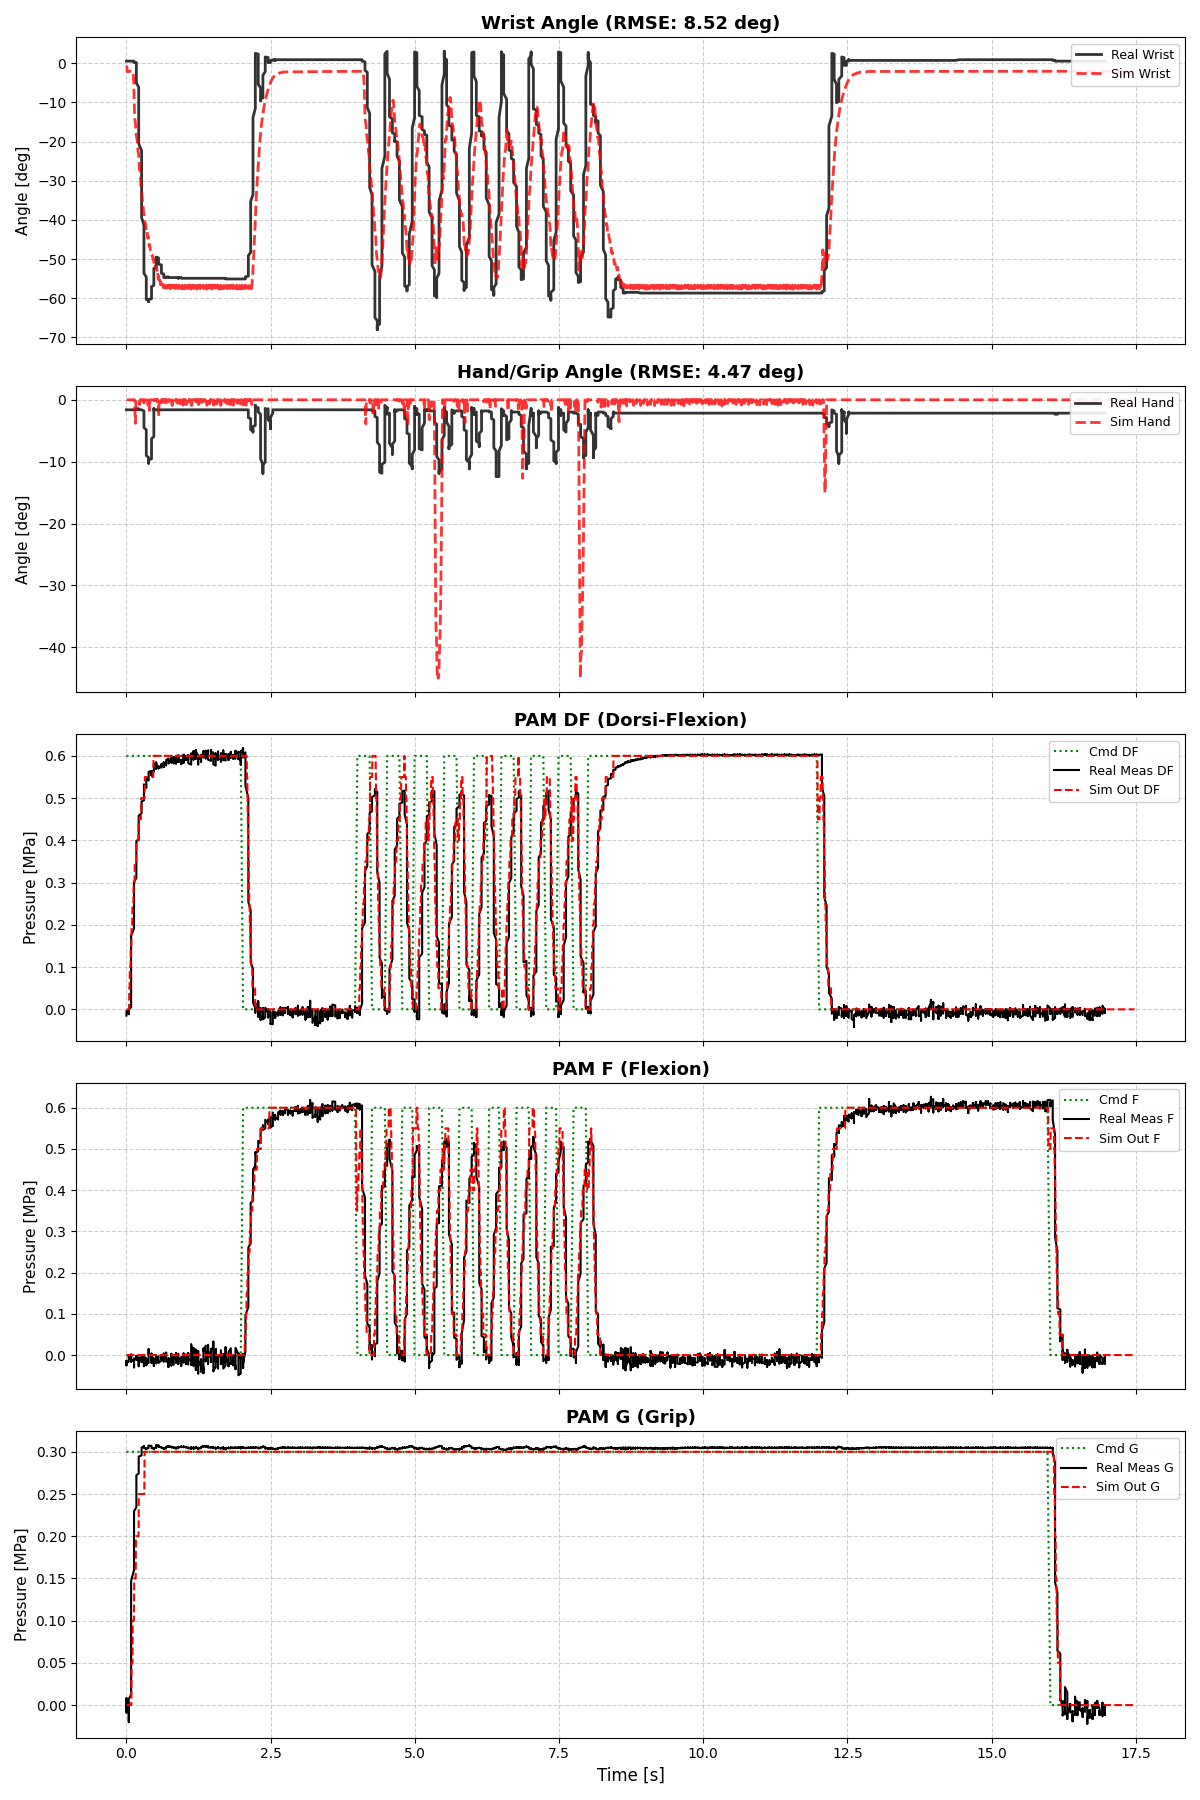
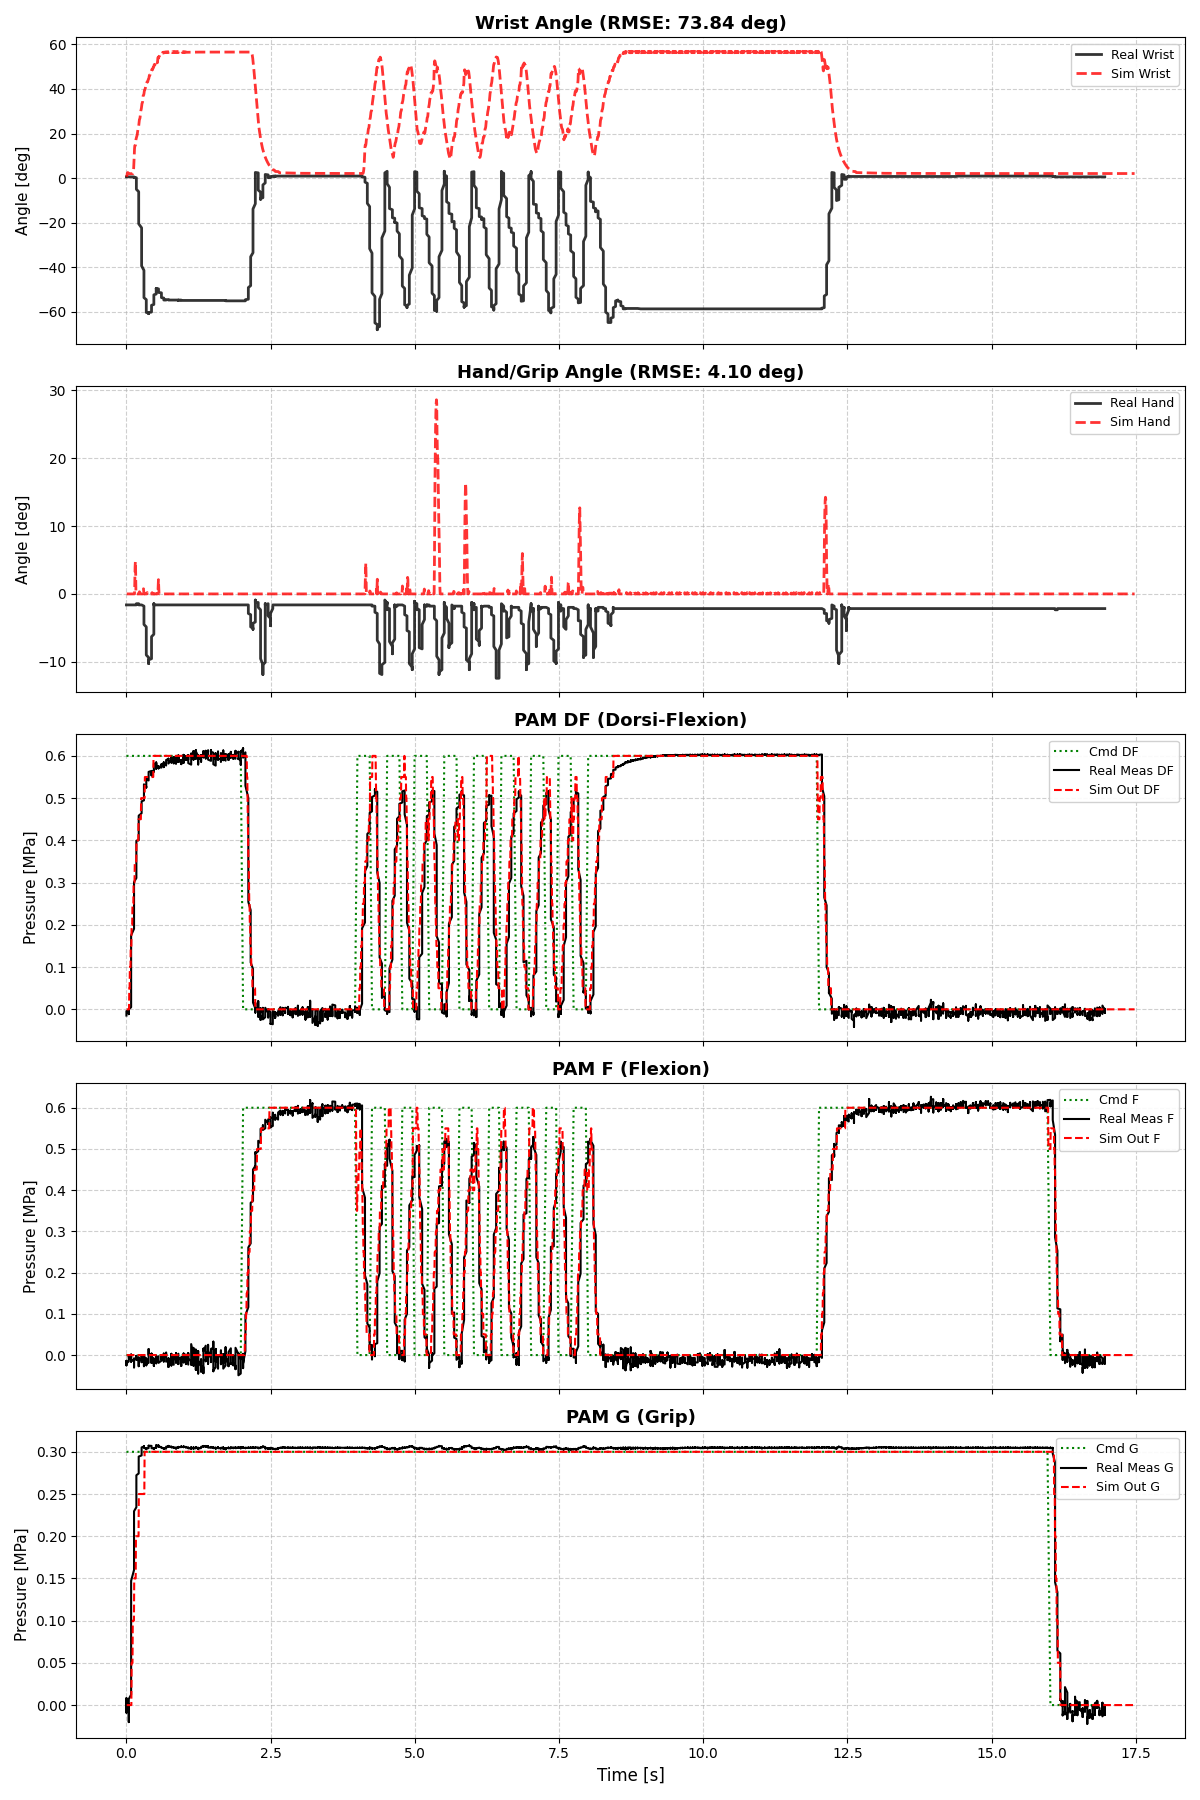
fix

diff --git a/source/porcaro_rl/porcaro_rl/tasks/direct/porcaro_rlv1/actions/torque.py b/source/porcaro_rl/porcaro_rl/tasks/direct/porcaro_rlv1/actions/torque.py
@@ -18,19 +18,19 @@ class TorqueActionController(ActionController):
                  control_mode: str = "ep", 
                  r: float = 0.014, L: float = 0.150,
                  theta_t_DF_deg: float = 0.0,
-                 theta_t_F_deg:  float = 90.0,
+                 theta_t_F_deg:  float = 70.0,
                  theta_t_G_deg:  float = 45.0,
                  Pmax: float = 0.6,
                  tau: float = 0.09, dead_time: float = 0.03,
                  N: float = 630.0,
-                 pam_viscosity: float = 800.0,
+                 pam_viscosity: float = 200.0,
                  force_map_csv: str | None = None,
                  force_scale: float = 1.0,
                  h0_map_csv: str | None = None,
                  use_pressure_dependent_tau: bool = True,
                  geometric_cfg: PamGeometricCfg | None = None,
                  pressure_shrink_gain: float = 0.02, 
-                 engagement_smoothness: float = 130.0):
+                 engagement_smoothness: float = 150.0):
 
         self.dt_ctrl = float(dt_ctrl)
         self.control_mode = control_mode

diff --git a/source/porcaro_rl/porcaro_rl/tasks/direct/porcaro_rlv1/cfg/assets.py b/source/porcaro_rl/porcaro_rl/tasks/direct/porcaro_rlv1/cfg/assets.py
@@ -12,7 +12,7 @@ from isaaclab.sim.schemas import MassPropertiesCfg
 
 # --- 定数 ---
 WRIST_J0       = math.radians(0.0)
-GRIP_J0        = math.radians(0)#8.1)
+GRIP_J0        = math.radians(-8.1)
 
 # --- ヘルパー関数 ---
 def quat_from_euler_zyx(yaw_deg=0.0, pitch_deg=0.0, roll_deg=0.0):
@@ -121,14 +121,14 @@ ROBOT_CFG = ArticulationCfg(
         "wrist": ImplicitActuatorCfg(
             joint_names_expr=[".*Base_link_Wrist_joint"],
             stiffness=0.00573,
-            damping=0.13,
+            damping=0.2,
             effort_limit_sim=500.0,
-            friction=0.02,
+            friction=0.05,
         ),
         "grip": ImplicitActuatorCfg(
             joint_names_expr=[".*Hand_link_Grip_joint"],
             stiffness=0.0001,
-            damping=0.001,
+            damping=0.01,
             effort_limit_sim=500.0,
             friction=0.001,
         ),

diff --git a/source/porcaro_rl/porcaro_rl/tasks/direct/porcaro_rlv1/porcaro_rl_env_cfg.py b/source/porcaro_rl/porcaro_rl/tasks/direct/porcaro_rlv1/porcaro_rl_env_cfg.py
@@ -82,7 +82,7 @@ class PorcaroRLEnvCfg(DirectRLEnvCfg):
     # デフォルトは True (有効収縮率を使用) とし、オフセットは 0 (影響なし) で初期化
     pam_geometric_cfg: PamGeometricCfg = PamGeometricCfg(
         enable_slack_compensation=True,
-        wire_slack_offsets=(-0.001, 0.00246, 0.01057), # 後でキャリブレーション値をここに入れます 0.00x mのワイヤーが正しく貼るまでの長さ
+        wire_slack_offsets=(-0.001, 0.01057, 0.01057), # 後でキャリブレーション値をここに入れます 0.00x mのワイヤーが正しく貼るまでの長さ
         natural_length=0.150
     )
     # --------------------------
